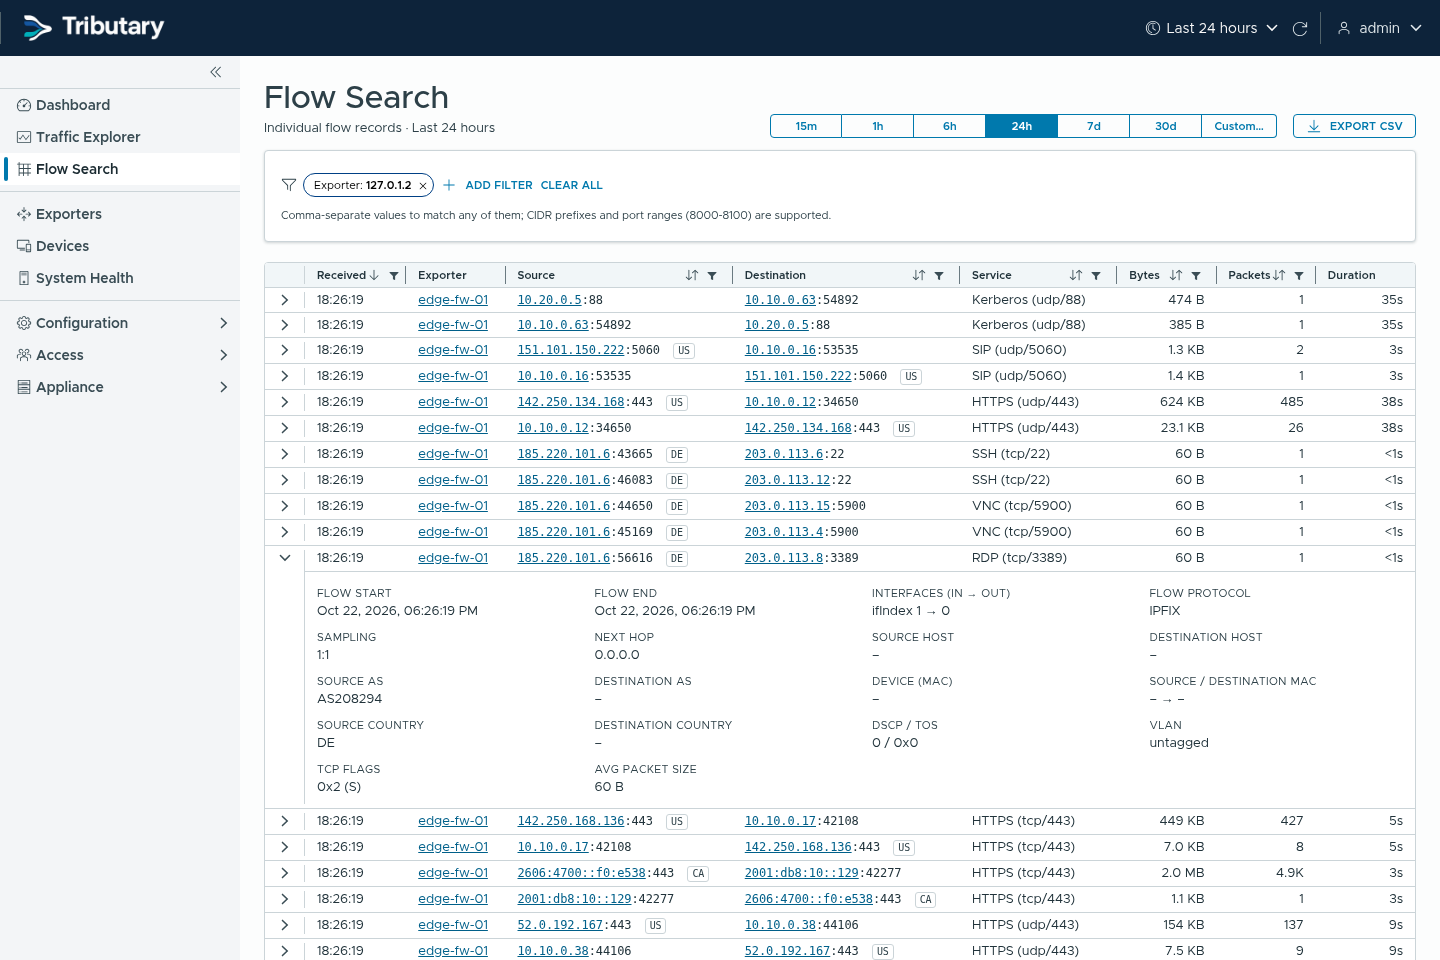
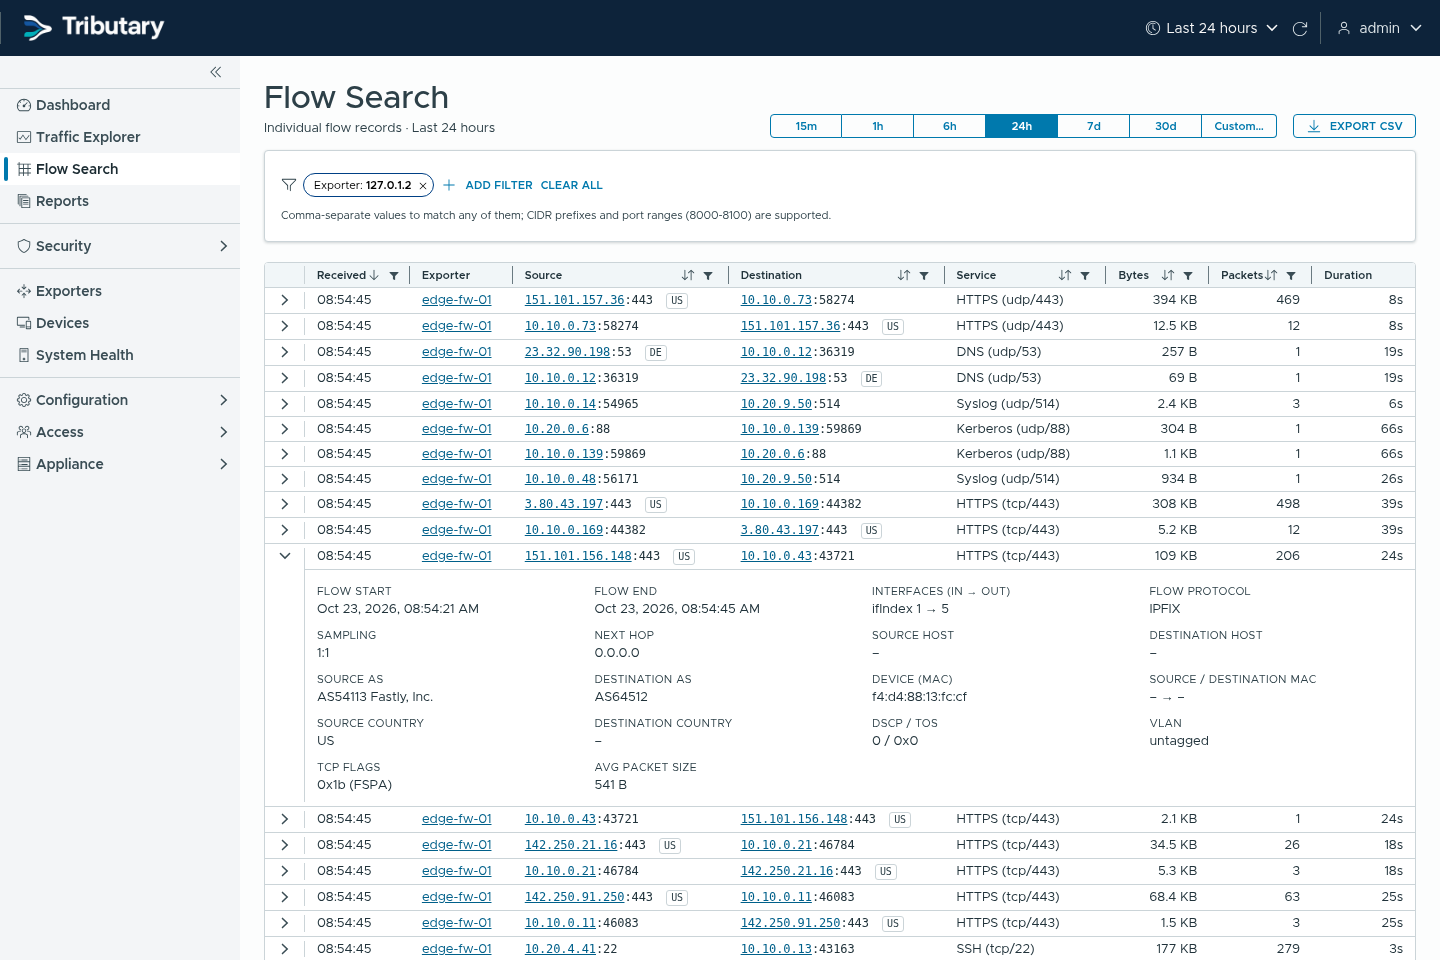
Retake the screenshots with Security, Reports and Local Networks
Adds Detections, Threat Feeds and Local Networks shots. The screenshot
instance gets a local "Demo watchlist" feed of a few simulated remote
hosts, with the backfilled flows tagged as ingest would have, and each
shot dismisses current notices so the demo's matches don't crowd them.

diff --git a/docs/SCREENSHOTS.md b/docs/SCREENSHOTS.md
@@ -8,5 +8,6 @@ Simulated traffic from `cmd/flowgen`.
 | ![Traffic Explorer](screenshots/explorer.png) Traffic Explorer | ![Flow Search](screenshots/flow-search.png) Flow Search |
 | ![Traffic paths](screenshots/paths.png) Traffic paths | ![Interface paths](screenshots/interface-paths.png) Interface paths |
 | ![Devices](screenshots/devices.png) Devices | ![Exporters](screenshots/exporters.png) Exporters |
-| ![Exporter detail](screenshots/exporter-detail.png) Exporter detail | ![Enrichment](screenshots/enrichment.png) Enrichment |
-| ![Sign in](screenshots/login.png) Sign in | |
+| ![Exporter detail](screenshots/exporter-detail.png) Exporter detail | ![Detections](screenshots/detections.png) Detections |
+| ![Threat feeds](screenshots/threat-feeds.png) Threat feeds | ![Local networks](screenshots/local-networks.png) Local networks |
+| ![Enrichment](screenshots/enrichment.png) Enrichment | ![Sign in](screenshots/login.png) Sign in |
